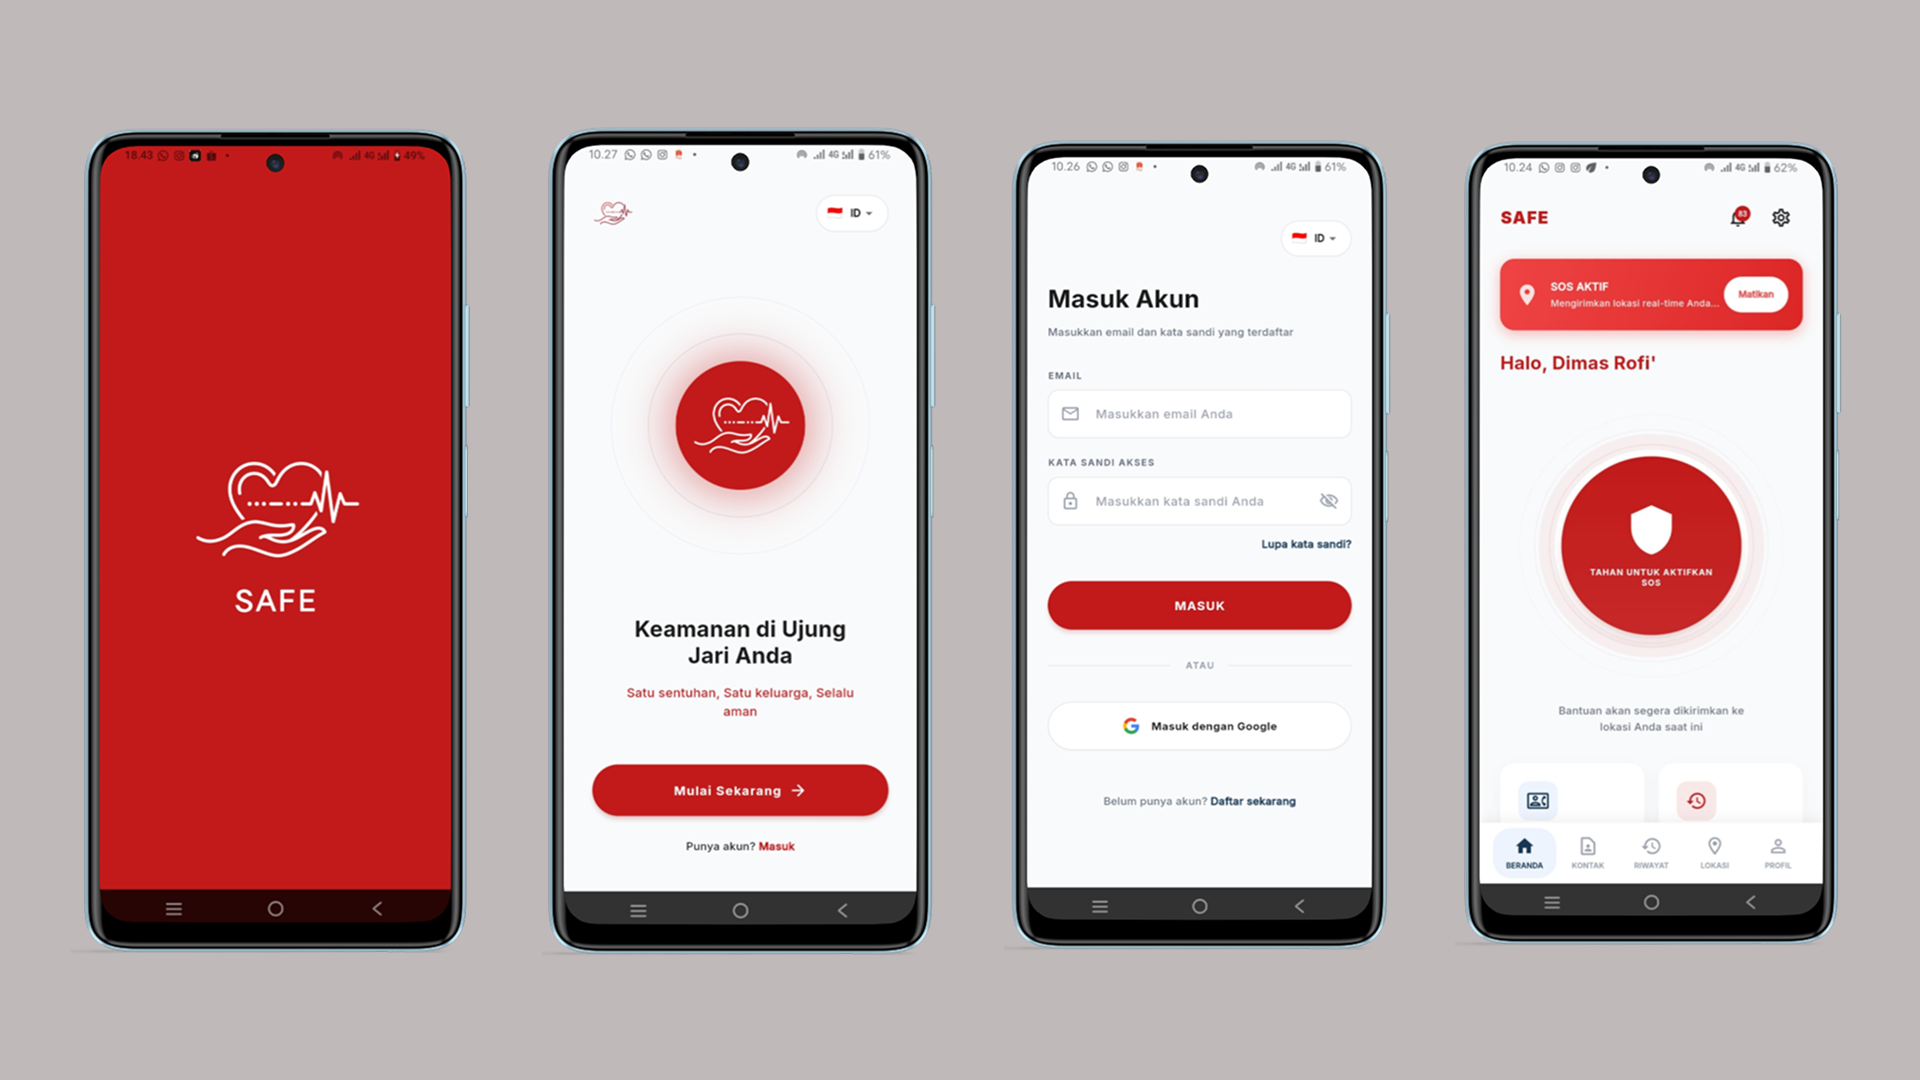
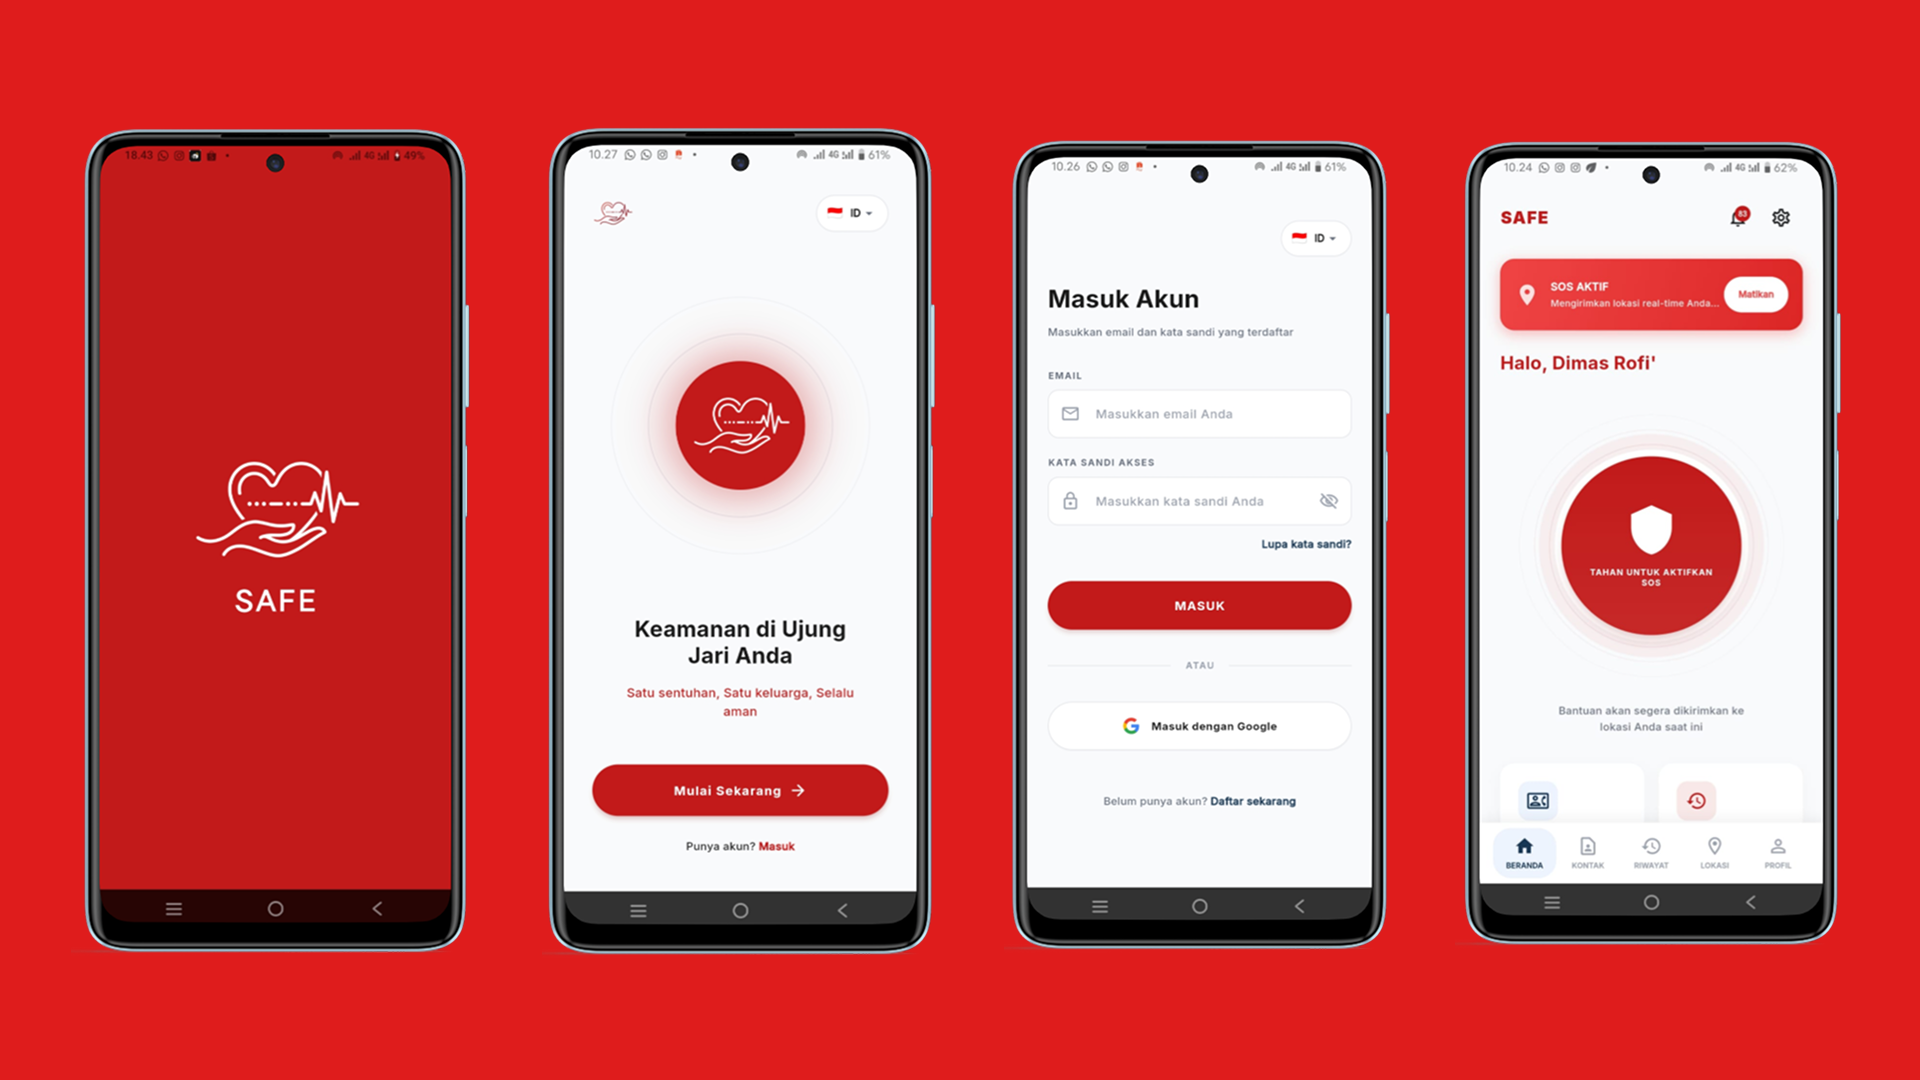
update

diff --git a/data/projects.ts b/data/projects.ts
@@ -96,7 +96,7 @@ I contributed to designing the user experience and developing the application's 
 
     subRole: "SYSTEM ANALYST",
 
-    imageBg: "bg-[#f8f8f8] dark:bg-[#18181c]",
+    imageBg: "bg-[#f8f8f8]",
 
     category: ["System Analyst"],
 
@@ -182,7 +182,7 @@ As a System Analyst, I was responsible for requirements analysis, business proce
 
     subRole: "SYSTEM ANALYST & WEB DEVELOPER",
 
-    imageBg: "bg-[#ffffff] dark:bg-[#18181c]",
+    imageBg: "bg-[#ffffff]",
 
     category: ["Web", "System Analyst"],
 
@@ -333,7 +333,7 @@ As a System Analyst, I was responsible for stakeholder analysis, requirements el
 
     subRole: "UI/UX DESIGNER",
 
-    imageBg: "bg-[#ffffff] dark:bg-[#18181c]",
+    imageBg: "bg-[#ffffff]",
 
     category: ["UI/UX"],
 
